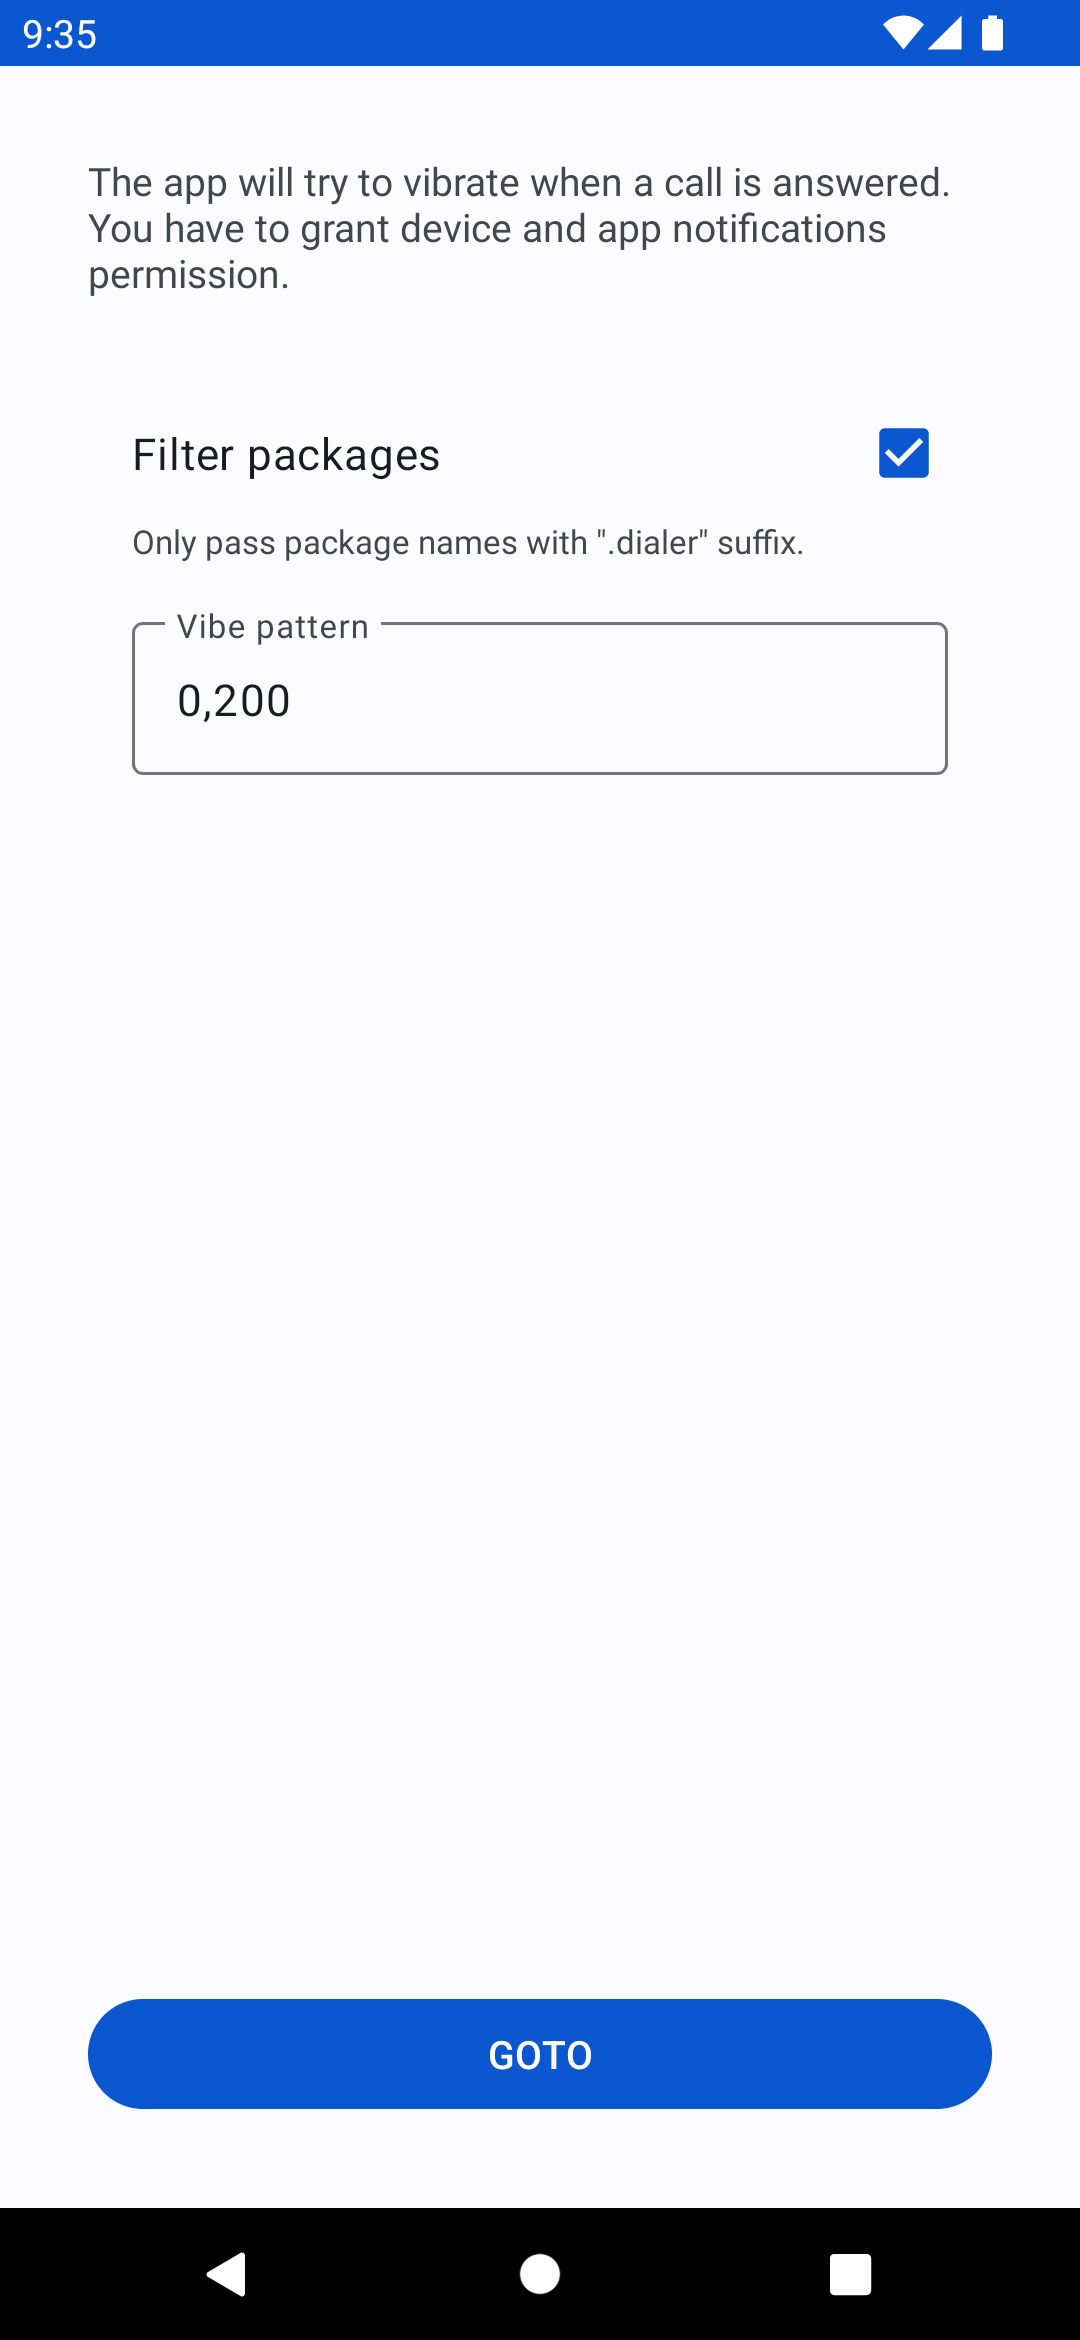
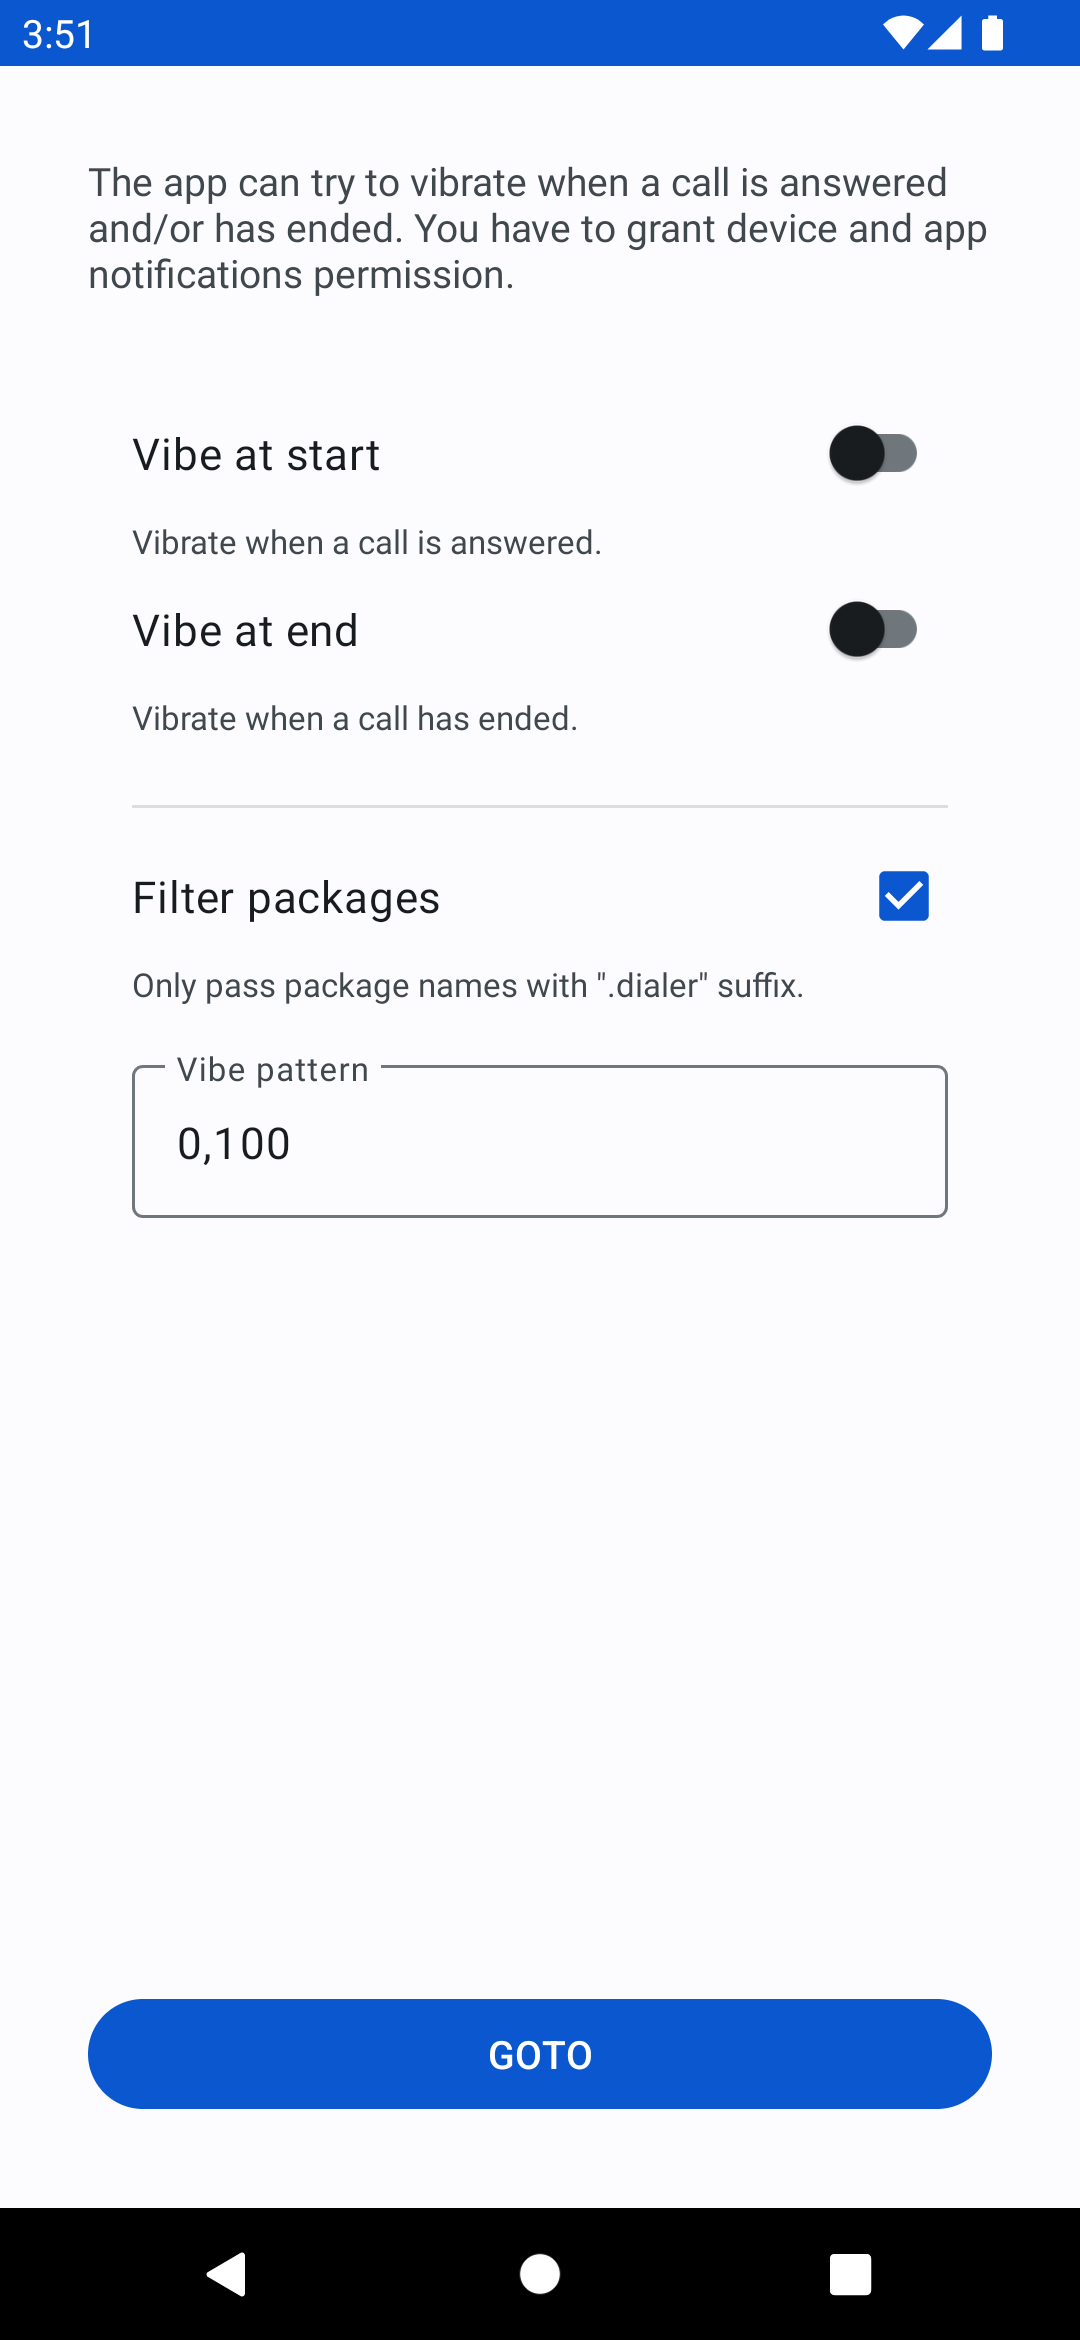
vibe at end

diff --git a/app/src/main/java/me/lucky/vibe/NotificationListenerService.kt b/app/src/main/java/me/lucky/vibe/NotificationListenerService.kt
@@ -2,7 +2,6 @@ package me.lucky.vibe
 
 import android.Manifest
 import android.app.Notification
-import android.content.Intent
 import android.media.AudioManager
 import android.os.Build
 import android.os.VibrationEffect
@@ -12,21 +11,21 @@ import android.service.notification.NotificationListenerService
 import android.service.notification.StatusBarNotification
 import android.telecom.TelecomManager
 import android.util.Log
-import androidx.annotation.RequiresApi
 import androidx.annotation.RequiresPermission
 import java.lang.NumberFormatException
 
 class NotificationListenerService : NotificationListenerService() {
     companion object {
-        private val TAG = NotificationListenerService::class.java.simpleName
+        private val TAG = NotificationListenerService::class.simpleName
         private const val DIALER_SUFFIX = ".dialer"
-        private const val MAX_DELAY = 2000
+        private const val MAX_DELAY = 2000L
     }
 
     private lateinit var prefs: Preferences
     private var telecomManager: TelecomManager? = null
     private var audioManager: AudioManager? = null
     private var vibrator: Vibrator? = null
+    private var key: String? = null
 
     override fun onCreate() {
         super.onCreate()
@@ -46,7 +45,9 @@ class NotificationListenerService : NotificationListenerService() {
 
     override fun onNotificationPosted(sbn: StatusBarNotification?) {
         super.onNotificationPosted(sbn)
+        val isVibeAtStart = prefs.isVibeAtStart
         if (sbn == null
+            || !(isVibeAtStart || prefs.isVibeAtEnd)
             || (audioManager?.mode != AudioManager.MODE_IN_CALL
                 && audioManager?.mode != AudioManager.MODE_IN_COMMUNICATION)
             || !sbn.isOngoing
@@ -56,6 +57,18 @@ class NotificationListenerService : NotificationListenerService() {
             || !sbn.notification.extras.getBoolean(Notification.EXTRA_SHOW_CHRONOMETER)
             || sbn.notification.extras.getBoolean(Notification.EXTRA_CHRONOMETER_COUNT_DOWN)
             || sbn.notification.`when` < System.currentTimeMillis() - MAX_DELAY) return
+        synchronized(this) { key = sbn.key }
+        if (!isVibeAtStart) return
+        vibrate()
+    }
+
+    override fun onNotificationRemoved(sbn: StatusBarNotification?) {
+        super.onNotificationRemoved(sbn)
+        if (sbn == null || !prefs.isVibeAtEnd) return
+        synchronized(this) {
+            if (key != sbn.key) return
+            key = null
+        }
         vibrate()
     }
 
@@ -76,34 +89,12 @@ class NotificationListenerService : NotificationListenerService() {
                 str.split(Preferences.VIBE_PATTERN_DELIMITER).map { it.toLong() }.toLongArray()
             } catch (exc: NumberFormatException) { null }
         }
-        var result = toLongArray(prefs.vibePattern)
-        if (result == null) result = toLongArray(Preferences.DEFAULT_VIBE_PATTERN)
-        return result
+        return toLongArray(prefs.vibePattern) ?: toLongArray(Preferences.DEFAULT_VIBE_PATTERN)
     }
 
     override fun onListenerConnected() {
         super.onListenerConnected()
-        if (Build.VERSION.SDK_INT >= Build.VERSION_CODES.S && prefs.isFilterPackageNames) migrate()
-    }
-
-    @RequiresApi(Build.VERSION_CODES.S)
-    private fun migrate() {
-        val packages = packageManager
-            .getInstalledPackages(0)
-            .map { it.packageName }
-            .toMutableSet()
-        packages.addAll(packageManager
-            .queryIntentActivities(
-                Intent(Intent.ACTION_MAIN).addCategory(Intent.CATEGORY_LAUNCHER),
-                0,
-            )
-            .map{ it.activityInfo.packageName })
-        migrateNotificationFilter(
-            0,
-            packages.filterNot {
-                it.endsWith(DIALER_SUFFIX) ||
-                it == telecomManager?.defaultDialerPackage
-            },
-        )
+        if (Build.VERSION.SDK_INT >= Build.VERSION_CODES.S)
+            migrateNotificationFilter(0, null)
     }
 }

diff --git a/app/src/main/java/me/lucky/vibe/MainActivity.kt b/app/src/main/java/me/lucky/vibe/MainActivity.kt
@@ -25,6 +25,8 @@ class MainActivity : AppCompatActivity() {
     private fun init() {
         prefs = Preferences(this)
         binding.apply {
+            vibeAtStart.isChecked = prefs.isVibeAtStart
+            vibeAtEnd.isChecked = prefs.isVibeAtEnd
             filterPackageNames.isChecked = prefs.isFilterPackageNames
             vibePattern.editText?.setText(prefs.vibePattern)
         }
@@ -32,15 +34,23 @@ class MainActivity : AppCompatActivity() {
 
     private fun setup() {
         binding.apply {
+            vibeAtStart.setOnCheckedChangeListener { _, isChecked ->
+                prefs.isVibeAtStart = isChecked
+            }
+            vibeAtEnd.setOnCheckedChangeListener { _, isChecked ->
+                prefs.isVibeAtEnd = isChecked
+            }
             filterPackageNames.setOnCheckedChangeListener { _, isChecked ->
                 prefs.isFilterPackageNames = isChecked
             }
-            vibePattern.editText?.doAfterTextChanged { text ->
-                val str = text.toString()
-                if (vibePatternRegex.matcher(str).matches())
+            vibePattern.editText?.doAfterTextChanged {
+                val str = it?.toString() ?: ""
+                if (vibePatternRegex.matcher(str).matches()) {
                     prefs.vibePattern = str
-                else
-                    vibePattern.editText?.error = getString(R.string.vibe_pattern_error)
+                    vibePattern.error = null
+                } else {
+                    vibePattern.error = getString(R.string.vibe_pattern_error)
+                }
             }
             gotoButton.setOnClickListener {
                 startActivity(Intent(Settings.ACTION_NOTIFICATION_LISTENER_SETTINGS))

diff --git a/app/src/main/java/me/lucky/vibe/Preferences.kt b/app/src/main/java/me/lucky/vibe/Preferences.kt
@@ -6,15 +6,24 @@ import androidx.preference.PreferenceManager
 
 class Preferences(ctx: Context) {
     companion object {
+        private const val VIBE_AT_START = "vibe_at_start"
+        private const val VIBE_AT_END = "vibe_at_end"
         private const val FILTER_PACKAGE_NAMES = "filter_package_names"
         private const val VIBE_PATTERN = "vibe_pattern"
 
         const val VIBE_PATTERN_DELIMITER = ","
-        val DEFAULT_VIBE_PATTERN = arrayOf("0", "200")
-            .joinToString(VIBE_PATTERN_DELIMITER)
+        val DEFAULT_VIBE_PATTERN = arrayOf("0", "100").joinToString(VIBE_PATTERN_DELIMITER)
     }
 
     private val prefs = PreferenceManager.getDefaultSharedPreferences(ctx)
+
+    var isVibeAtStart: Boolean
+        get() = prefs.getBoolean(VIBE_AT_START, false)
+        set(value) = prefs.edit { putBoolean(VIBE_AT_START, value) }
+
+    var isVibeAtEnd: Boolean
+        get() = prefs.getBoolean(VIBE_AT_END, false)
+        set(value) = prefs.edit { putBoolean(VIBE_AT_END, value) }
 
     var isFilterPackageNames: Boolean
         get() = prefs.getBoolean(FILTER_PACKAGE_NAMES, true)

diff --git a/README.md b/README.md
@@ -1,6 +1,6 @@
 # Vibe
 
-Vibrate on a call answer.
+Vibrate on a call answer/end.
 
 [<img
      src="https://fdroid.gitlab.io/artwork/badge/get-it-on.png"
@@ -16,18 +16,17 @@ Vibrate on a call answer.
      width="30%" 
      height="30%">
 
-Tiny app to vibrate when a call is answered.
+Tiny app to vibrate when a call is answered and/or has ended.
 
 Tested:
-- Phone (com.android.dialer)
-- Google Phone (com.google.android.dialer)
-- Simple Dialer (com.simplemobiletools.dialer)
+* Phone (com.android.dialer)
+* Google Phone (com.google.android.dialer)
+* Simple Dialer (com.simplemobiletools.dialer)
 
 ## Permissions
 
-- Notifications    - scan for a call answer
-- Vibrate          - notify when a call is answered
-- QueryAllPackages - disable notification events for not .dialer apps on Android 12 and newer
+* NOTIFICATION_LISTENER - scan for a call answer/end
+* VIBRATE               - notify when a call is answered / has ended
 
 ## License
 [![GNU GPLv3 Image](https://www.gnu.org/graphics/gplv3-127x51.png)](https://www.gnu.org/licenses/gpl-3.0.en.html)

diff --git a/PRIVACY.md b/PRIVACY.md
@@ -1,3 +1,3 @@
-# Privacy Police
+# Privacy Policy
 
 The app has nothing to store, but settings.
